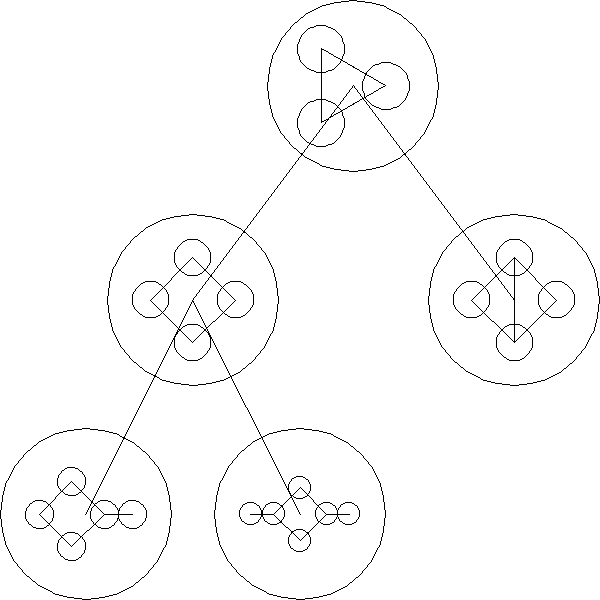
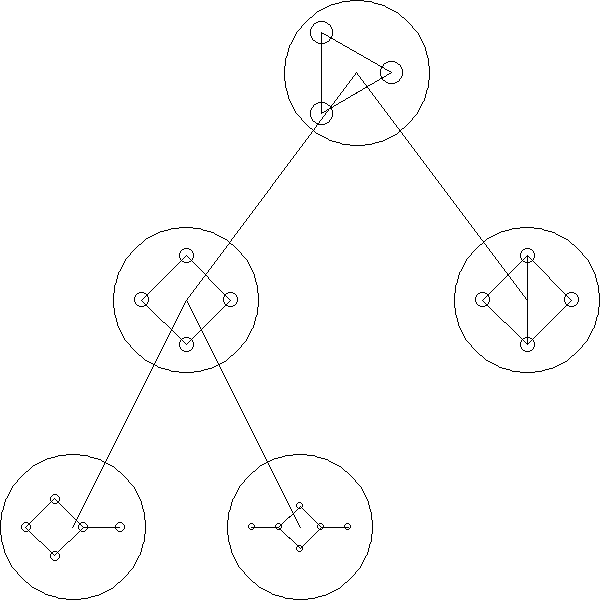
Configure the parameters properly

diff --git a/src/sketch/MetagraphSketcher.java b/src/sketch/MetagraphSketcher.java
@@ -11,6 +11,7 @@ import model.Metagraph;
 import planar.Edge;
 import sketcher.Sketcher;
 import diagram.element.IDiagramElement;
+import draw.ParameterSet;
 
 public class MetagraphSketcher implements Sketcher<Metagraph, List<IDiagramElement>> {
 	
@@ -22,10 +23,21 @@ public class MetagraphSketcher implements Sketcher<Metagraph, List<IDiagramEleme
 	
 	public MetagraphSketcher(SimpleLayout topLevelLayout, SimpleLayout subLevelLayout) {
 		this.edgeGenerators = new ArrayList<IGenerator<Edge>>();
-		graphSketcher = new GraphSketcher(topLevelLayout);
-		subGraphSketcher = new GraphSketcher(subLevelLayout);
+		graphSketcher = new GraphSketcher(topLevelLayout, getTopLevelParams());
+		subGraphSketcher = new GraphSketcher(subLevelLayout, getSubLevelParams());
 	}
 	
+	private ParameterSet getSubLevelParams() {
+		ParameterSet params = new ParameterSet();
+		params.set("vertexRadius", 1);
+		return params;
+	}
+
+	private ParameterSet getTopLevelParams() {
+		ParameterSet params = new ParameterSet();
+		params.set("vertexRadius", 8);
+		return params;	}
+
 	public void addEdgeGenerator(IGenerator<Edge> edgeGenerator) {
 		this.edgeGenerators.add(edgeGenerator);
 	}

diff --git a/src/sketch/GraphSketcher.java b/src/sketch/GraphSketcher.java
@@ -15,6 +15,7 @@ import diagram.element.CircleElement;
 import diagram.element.ElementList;
 import diagram.element.IDiagramElement;
 import diagram.element.LineElement;
+import draw.ParameterSet;
 import draw.Representation;
 
 /**
@@ -28,18 +29,24 @@ public class GraphSketcher extends AbstractArtist implements Sketcher<Graph, IDi
 
 	private SimpleLayout layout;
 	
+	private ParameterSet params;
+	
 	public GraphSketcher(SimpleLayout layout) {
+		this(layout, new ParameterSet());
+	}
+	
+	public GraphSketcher(SimpleLayout layout, ParameterSet params) {
 		this.layout = layout;
+		this.params = params;
 	}
 
 	@Override
 	public IDiagramElement sketch(Graph graph) {
-		layout.getParameters().set("edgeLength", 20);
 		Rectangle2D canvas = new Rectangle2D.Double(0, 0, 100, 100);
 		
 		Representation rep = layout.layout(graph, canvas);
 		IDiagramElement root = new ElementList();
-		int r = 10;	// TODO
+		int r = (int) params.get("vertexRadius");
 		List<Point2D> points = rep.getPoints();
 		for (Point2D p : points) {
 			root.add(new CircleElement(new Point2d(p.getX(), p.getY()), r));

diff --git a/src/render/MetagraphRenderer.java b/src/render/MetagraphRenderer.java
@@ -27,12 +27,20 @@ public class MetagraphRenderer extends AbstractRenderer<Metagraph> {
 	
 	public MetagraphRenderer(Graphics graphics) {
 		painter = new ListAWTPainter(graphics, false);
-		metagraphSketcher = new MetagraphSketcher(new TopDownTreeLayout(getParams()), new GraphLayout());
+		metagraphSketcher = new MetagraphSketcher(
+								new TopDownTreeLayout(getTopLevelParams()),
+								new GraphLayout(getSubLevelParams()));
 	}
 	
-	private ParameterSet getParams() {
+	private ParameterSet getSubLevelParams() {
 		ParameterSet params = new ParameterSet();
-		params.set("edgeLength", 20);
+		params.set("edgeLength", 8);
+		return params;
+	}
+
+	private ParameterSet getTopLevelParams() {
+		ParameterSet params = new ParameterSet();
+		params.set("edgeLength", 15);
 		params.set("rootLabel", 0);
 		return params;
 	}
